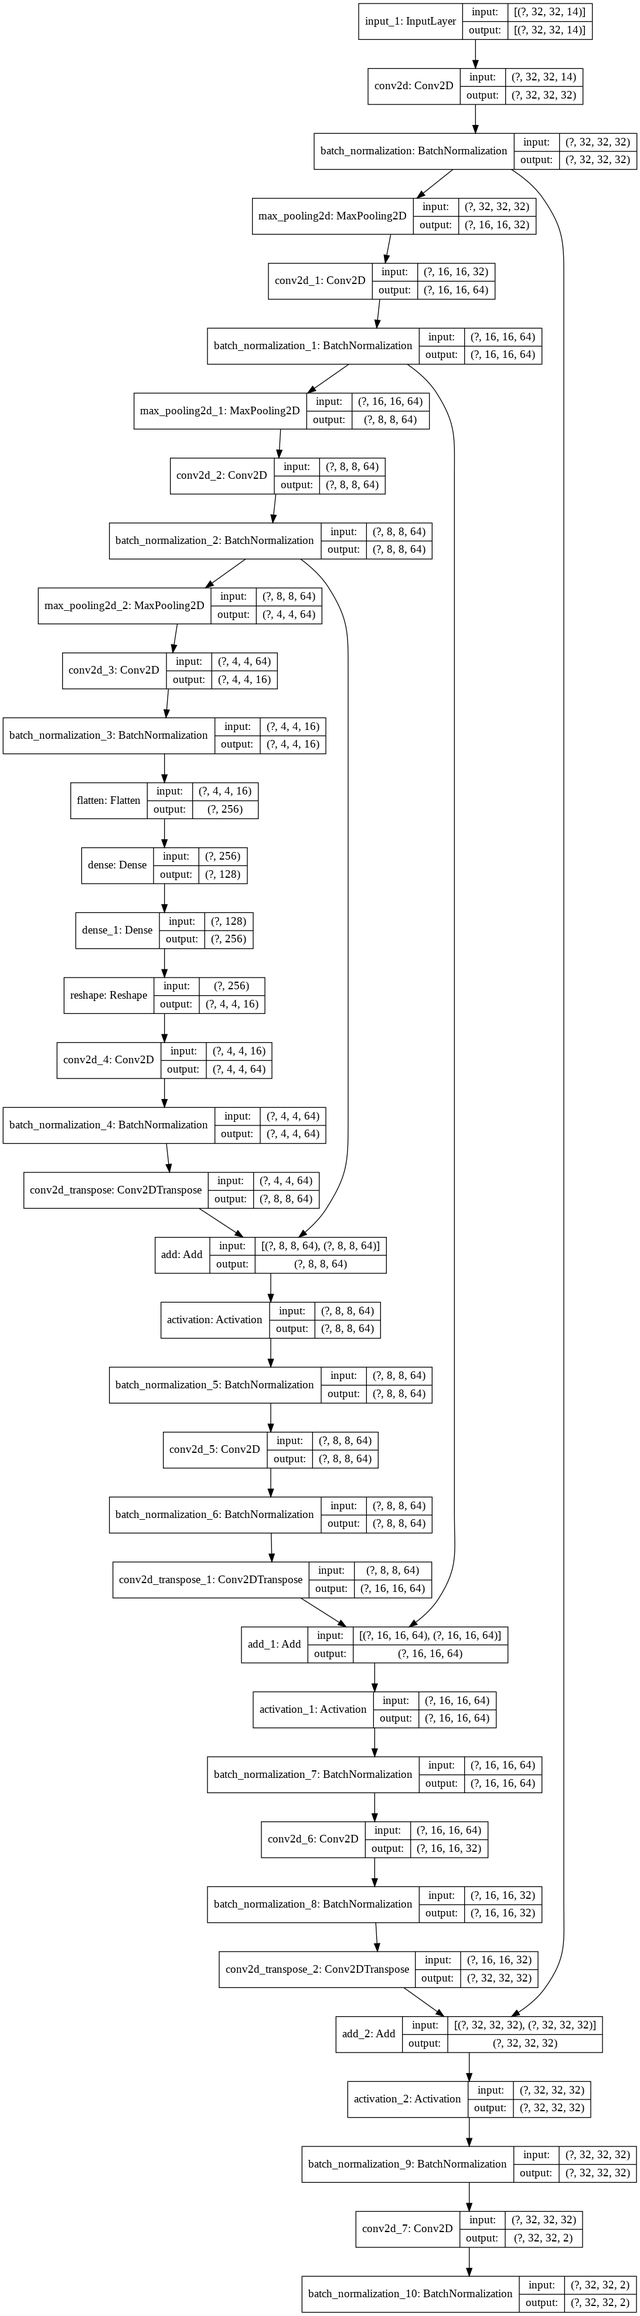
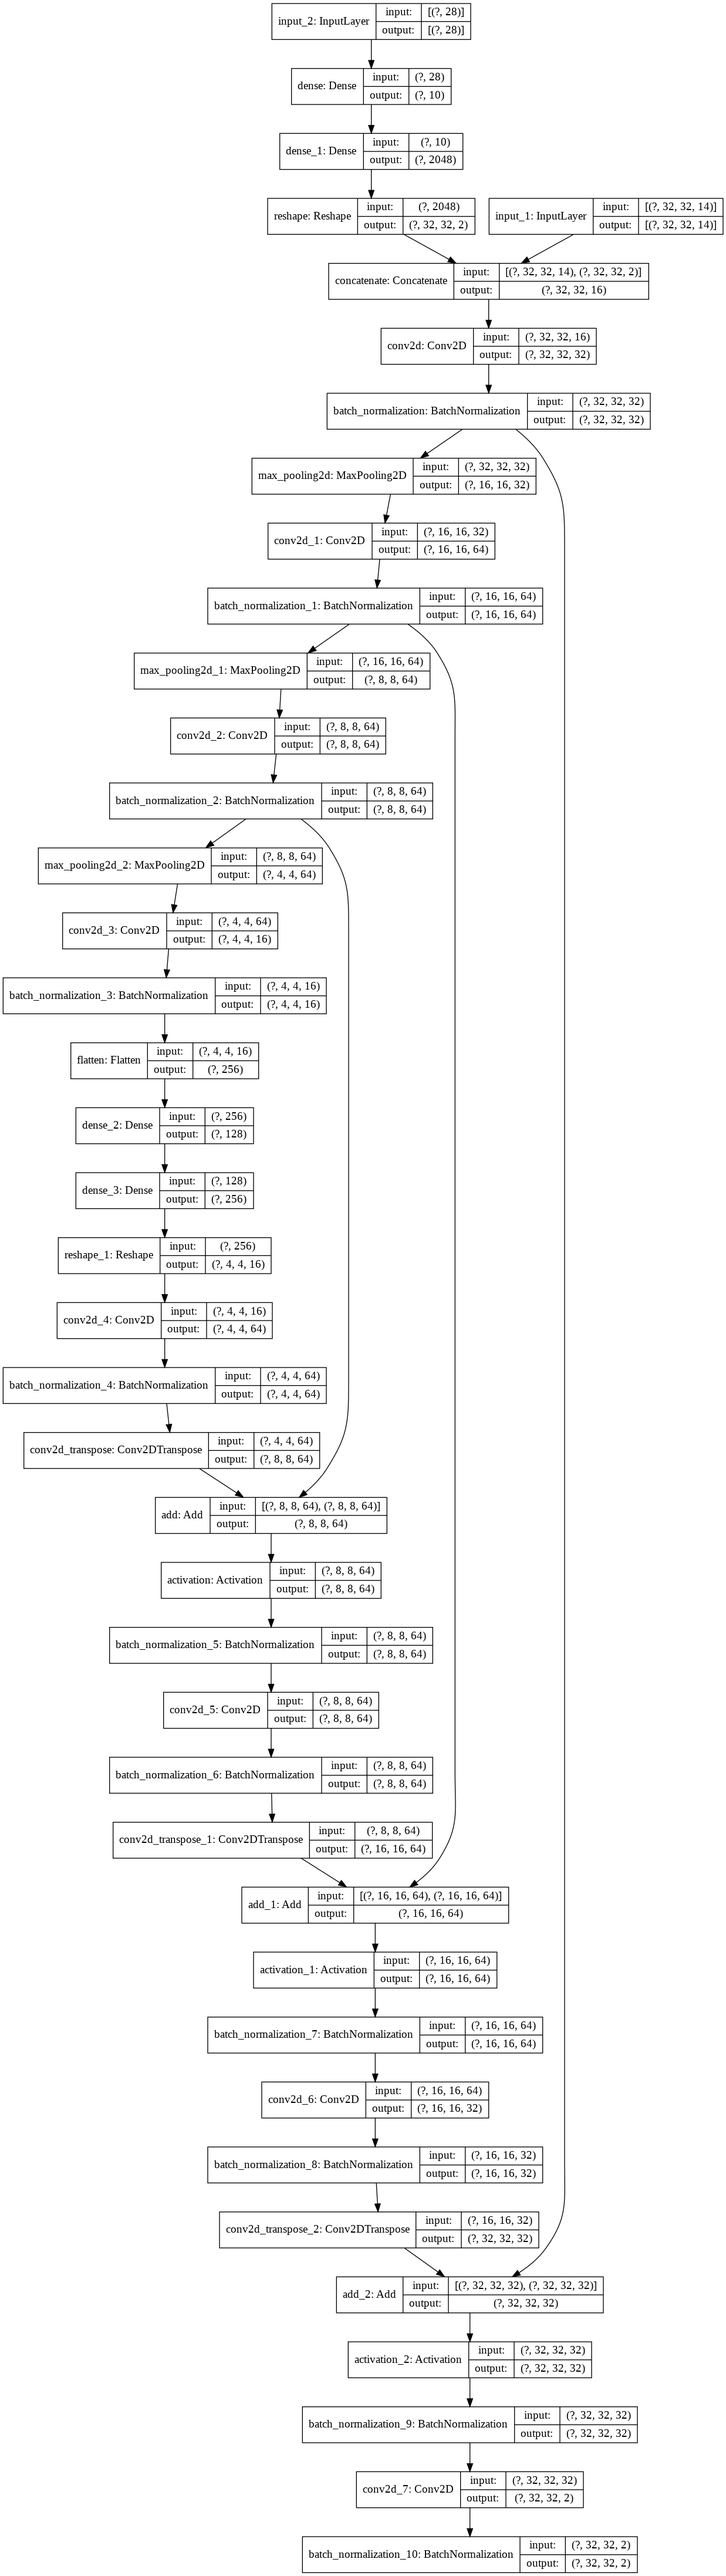
Integrate external features nel modello

Changed region(s): [[0.0, 0.0, 1.0, 1.0], [0.2802, 0.7791, 0.3114, 0.8102], [0.0, 0.374, 0.0311, 0.4051]]

diff --git a/Autoencoder/src/model.py b/Autoencoder/src/model.py
@@ -3,6 +3,7 @@ from keras.layers import (
     Input,
     Activation,
     Flatten,
+    Concatenate,
     Dense,
     Reshape,
     Conv2D,
@@ -25,12 +26,25 @@ def my_conv_transpose(input_layer, skip_connection_layer):
     l = BatchNormalization()(l)
     return l
 
-def my_model(len_c, len_p, len_t, nb_flow=2, map_height=32, map_width=32, encoder_blocks=3, filters=[32,64,64,16]):
+def my_model(len_c, len_p, len_t, nb_flow=2, map_height=32, map_width=32, external_dim=8, encoder_blocks=3, filters=[32,64,64,16]):
 
+    main_inputs = []
     #ENCODER
     # input layer 32x32x14
     input = Input(shape=((map_height, map_width, nb_flow * (len_c+len_p*2+len_t*2))))
+    main_inputs.append(input)
     x = input
+
+    # merge external features
+    if external_dim != None and external_dim > 0:
+        # external input
+        external_input = Input(shape=(external_dim,))
+        main_inputs.append(external_input)
+        embedding = Dense(units=10, activation='relu')(external_input)
+        h1 = Dense(units=nb_flow*map_height * map_width, activation='relu')(embedding)
+        external_output = Reshape((map_height, map_width, nb_flow))(h1)
+        main_output = Concatenate(axis=3)([input, external_output])
+        x = main_output
 
     # build encoder blocks
     skip_connection_layers = []
@@ -65,4 +79,4 @@ def my_model(len_c, len_p, len_t, nb_flow=2, map_height=32, map_width=32, encode
     # last convolution + tanh + bn 32x32x2
     output = my_conv(x, nb_flow, 'tanh')
 
-    return Model(input, output)
+    return Model(main_inputs, output)

diff --git a/Autoencoder/utils.py b/Autoencoder/utils.py
@@ -59,8 +59,8 @@ def cache(fname, X_train_all, Y_train_all, X_train, Y_train, X_val, Y_val, X_tes
     h5.create_dataset('T_test', data=timestamp_test)
     h5.close()
 
-def build_model(len_c, len_p, len_t, nb_flow=2, map_height=32, map_width=32, encoder_blocks=3, filters=[32,64,64,16], lr=0.0001, save_model_pic=False):
-    model = my_model(len_c, len_p, len_t, nb_flow, map_height, map_width, encoder_blocks, filters)
+def build_model(len_c, len_p, len_t, nb_flow=2, map_height=32, map_width=32, external_dim=8, encoder_blocks=3, filters=[32,64,64,16], lr=0.0001, save_model_pic=False):
+    model = my_model(len_c, len_p, len_t, nb_flow, map_height, map_width, external_dim, encoder_blocks, filters)
     adam = Adam(lr=lr)
     model.compile(loss='mse', optimizer=adam, metrics=[metrics.rmse])
     # model.summary()

diff --git a/Autoencoder/main_taxiBJ.py b/Autoencoder/main_taxiBJ.py
@@ -69,4 +69,4 @@ print("\n days (test): ", [v[:8] for v in timestamp_test[0::T]])
 print("\nelapsed time (loading data): %.3f seconds\n" % (time.time() - ts))
 
 # build model
-model = build_model(len_closeness, len_period, len_trend, save_model_pic=False)
+model = build_model(len_closeness, len_period, len_trend, external_dim=external_dim save_model_pic=False)
